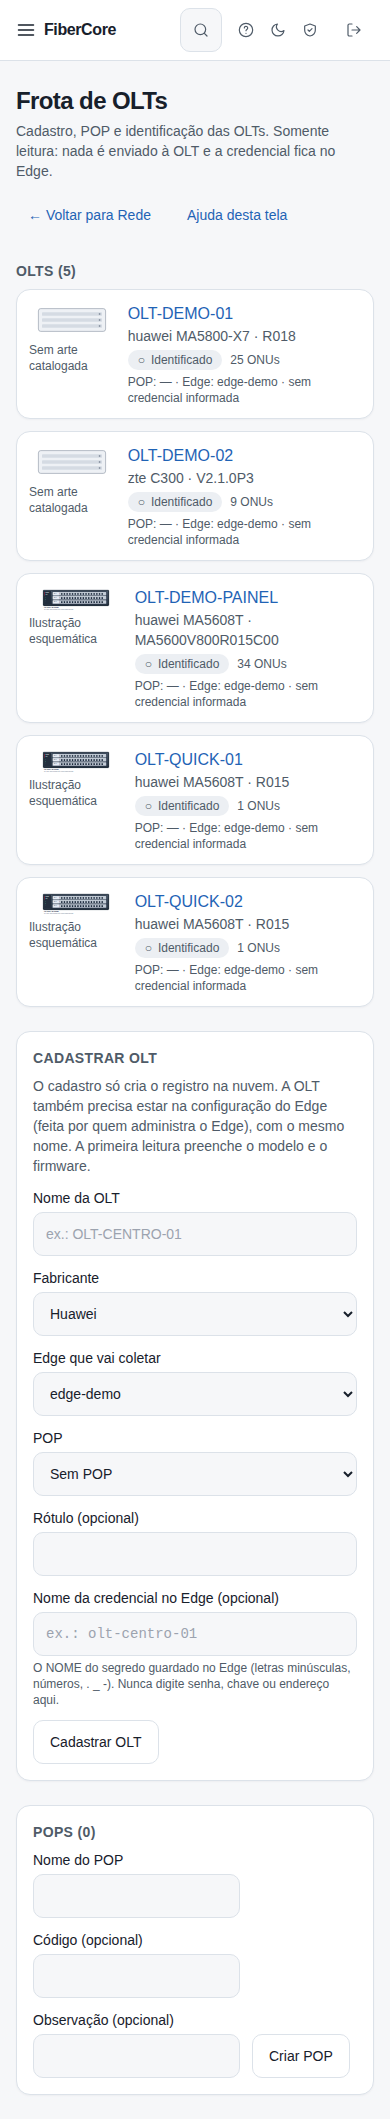
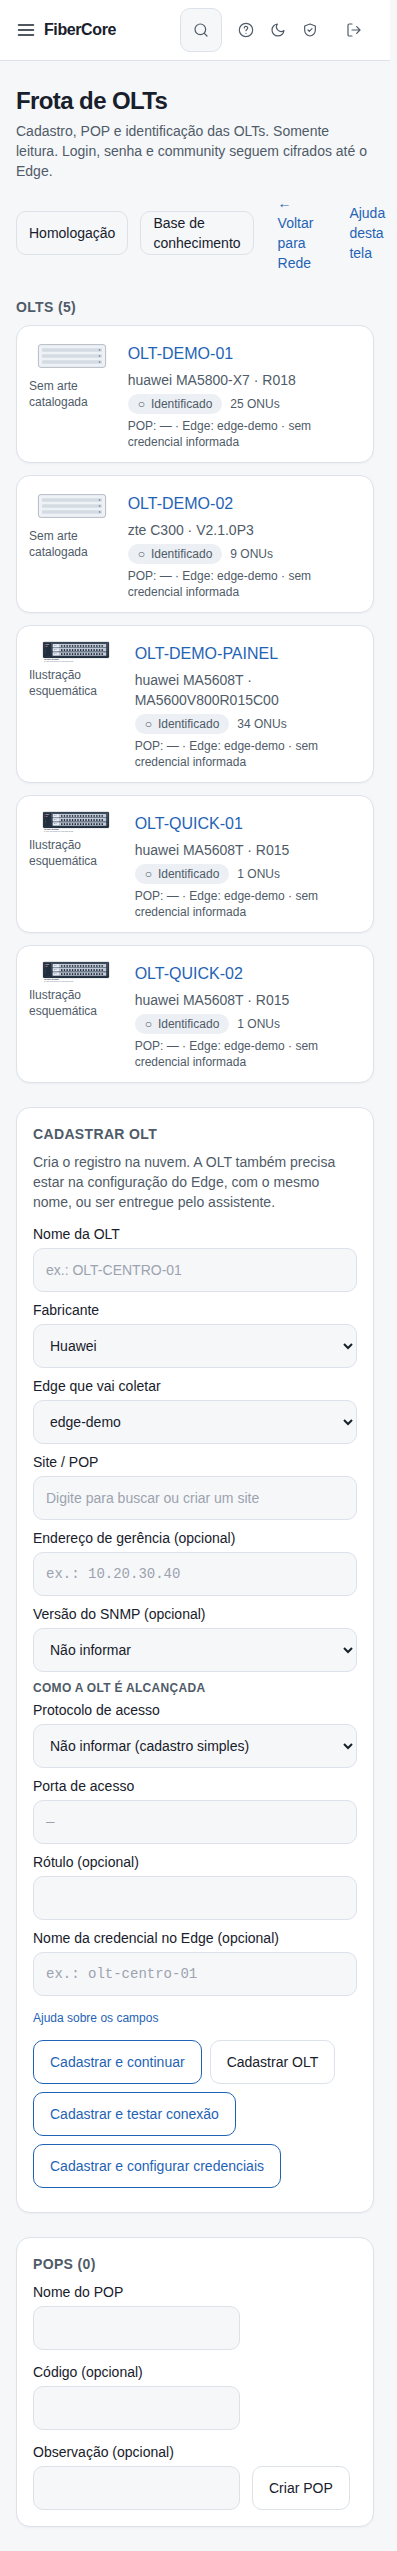
feat(web): cadastro de OLT compacto (grade de 3 colunas, ajuda recolhida, identificação em grade)
A tela da OLT e o formulário de cadastro da Frota usavam uma coluna com texto de ajuda sob cada campo.
Agora: campos lado a lado, os textos longos num bloco "Ajuda sobre os campos" recolhido (FormHelp),
identificação em grade de 4 colunas, assistente de passos mais baixo. Nomes de campos, rótulos e
data-testid preservados. O teste de acessibilidade analisa a página inteira (janela alta) em vez de
reprovar um campo cortado pela borda da janela de 720 px. Capturas da ajuda da Frota regeneradas.

Claude-Session: https://claude.ai/code/session_01G65B8bZFV5S5Eandr1ySmp

diff --git a/apps/web/src/components/OltRegisterForm.tsx b/apps/web/src/components/OltRegisterForm.tsx
@@ -3,6 +3,7 @@ import { useRouter } from "next/navigation";
 import Link from "next/link";
 import { useCallback, useEffect, useRef, useState } from "react";
 import { ConnectionFields } from "@/components/ConnectionFields";
+import { FormHelp } from "@/components/FormHelp";
 import { PopCombobox } from "@/components/PopCombobox";
 import { ADDRESS_HELP, CRED_HELP, FLEET_FLASH, FLEET_VENDORS, SNMP_VERSIONS, type Pop } from "@/lib/fleet";
 import { connectionPlain, DEFAULT_PORT, EDGE_VENDORS, hostKeyProblem, ipLiteralProblem, portProblem, TRUST_COMMAND, VENDOR_WARNING } from "@/lib/oltConnection";
@@ -149,34 +150,36 @@ export function OltRegisterForm({ edges, pops, secretsOn, provisionOn }: { edges
   }
 
   return (
-    <form method="post" action="/bff/frota/olts" onSubmit={(e) => void onSubmit(e)} className="grid gap-3 md:grid-cols-2">
-      <label className="grid gap-1 text-sm">Nome da OLT<input name="name" required minLength={2} maxLength={60} className={field} placeholder="ex.: OLT-CENTRO-01" /></label>
-      <label className="grid gap-1 text-sm">Fabricante<select name="vendor" required value={vendor} onChange={(e) => setVendor(e.target.value)} className={field}>{FLEET_VENDORS.map(([v, l]) => <option key={v} value={v}>{l}</option>)}</select>
-        {!EDGE_VENDORS.includes(vendor) && <span className="text-xs text-muted" data-testid="frota-fabricante-aviso">{VENDOR_WARNING}</span>}</label>
-      <label className="grid gap-1 text-sm">Edge que vai coletar<select name="edge_id" required className={field}>{edges.map((e) => <option key={e.id} value={e.id}>{e.name}</option>)}</select></label>
-      <PopCombobox pops={pops.map((p) => ({ id: p.id, name: p.name }))} />
-      <label className="grid gap-1 text-sm">Endereço de gerência (opcional)<input name="mgmt_address" maxLength={45} autoComplete="off" spellCheck={false} inputMode="text" className={`${field} font-mono`} placeholder="ex.: 10.20.30.40" />
-        <span className="text-xs text-muted">{ADDRESS_HELP}</span></label>
-      <label className="grid gap-1 text-sm">Versão do SNMP (opcional)<select name="snmp_version" className={field}><option value="">Não informar</option>{SNMP_VERSIONS.map(([v, l]) => <option key={v} value={v}>{l}</option>)}</select></label>
+    <form method="post" action="/bff/frota/olts" onSubmit={(e) => void onSubmit(e)} className="grid gap-x-3 gap-y-2 md:grid-cols-6">
+      <label className="grid gap-1 text-sm md:col-span-2">Nome da OLT<input name="name" required minLength={2} maxLength={60} className={field} placeholder="ex.: OLT-CENTRO-01" /></label>
+      <label className="grid gap-1 text-sm md:col-span-2">Fabricante<select name="vendor" required value={vendor} onChange={(e) => setVendor(e.target.value)} className={field}>{FLEET_VENDORS.map(([v, l]) => <option key={v} value={v}>{l}</option>)}</select></label>
+      <label className="grid gap-1 text-sm md:col-span-2">Edge que vai coletar<select name="edge_id" required className={field}>{edges.map((e) => <option key={e.id} value={e.id}>{e.name}</option>)}</select></label>
+      {!EDGE_VENDORS.includes(vendor) && <p className="text-xs text-muted md:col-span-6" data-testid="frota-fabricante-aviso">{VENDOR_WARNING}</p>}
+      <div className="md:col-span-2"><PopCombobox pops={pops.map((p) => ({ id: p.id, name: p.name }))} /></div>
+      <label className="grid gap-1 text-sm md:col-span-2">Endereço de gerência (opcional)<input name="mgmt_address" maxLength={45} autoComplete="off" spellCheck={false} inputMode="text" className={`${field} font-mono`} placeholder="ex.: 10.20.30.40" /></label>
+      <label className="grid gap-1 text-sm md:col-span-2">Versão do SNMP (opcional)<select name="snmp_version" className={field}><option value="">Não informar</option>{SNMP_VERSIONS.map(([v, l]) => <option key={v} value={v}>{l}</option>)}</select></label>
       <ConnectionFields onChange={onConn} defaults={{ protocol: null, port: null, transport: "cli", snmp_port: null, host_key_sha256: null, ssh_mode: "exec", legacy_ssh: false }} />
       {showSecrets && (
-        <fieldset className="grid gap-3 md:col-span-2 md:grid-cols-2" data-testid="frota-segredos">
+        <fieldset className="grid gap-x-3 gap-y-2 md:col-span-6 md:grid-cols-6" data-testid="frota-segredos">
           <legend className="mb-1 text-xs font-semibold uppercase tracking-wide text-muted">{snmpSelected ? "Community SNMP" : "Login e senha"} (cifrados neste navegador antes de sair)</legend>
           {snmpSelected ? (
-            <label className="grid gap-1 text-sm">Community SNMP (v2c)<input ref={commRef} type="password" autoComplete="off" spellCheck={false} maxLength={64} data-lpignore="true" data-1p-ignore data-testid="frota-community" className={`${field} font-mono`} /></label>
+            <label className="grid gap-1 text-sm md:col-span-3">Community SNMP (v2c)<input ref={commRef} type="password" autoComplete="off" spellCheck={false} maxLength={64} data-lpignore="true" data-1p-ignore data-testid="frota-community" className={`${field} font-mono`} /></label>
           ) : (
             <>
-              <label className="grid gap-1 text-sm">Login da OLT<input ref={userRef} type="password" autoComplete="off" spellCheck={false} maxLength={64} data-lpignore="true" data-1p-ignore data-testid="frota-login" className={`${field} font-mono`} /></label>
-              <label className="grid gap-1 text-sm">Senha da OLT<input ref={passRef} type="password" autoComplete="new-password" spellCheck={false} maxLength={128} data-lpignore="true" data-1p-ignore data-testid="frota-senha" className={`${field} font-mono`} /></label>
+              <label className="grid gap-1 text-sm md:col-span-3">Login da OLT<input ref={userRef} type="password" autoComplete="off" spellCheck={false} maxLength={64} data-lpignore="true" data-1p-ignore data-testid="frota-login" className={`${field} font-mono`} /></label>
+              <label className="grid gap-1 text-sm md:col-span-3">Senha da OLT<input ref={passRef} type="password" autoComplete="new-password" spellCheck={false} maxLength={128} data-lpignore="true" data-1p-ignore data-testid="frota-senha" className={`${field} font-mono`} /></label>
             </>
           )}
-          <p className="text-xs text-muted md:col-span-2">Cifrado com a chave pública do Edge: a nuvem só guarda e repassa texto cifrado e nunca o devolve. Os campos são apagados ao enviar. Isto <strong>não troca a senha na OLT</strong>; só entrega a cópia que o Edge usa. Telnet não tem senha aqui.</p>
         </fieldset>
       )}
-      <label className="grid gap-1 text-sm">Rótulo (opcional)<input name="label" maxLength={80} className={field} /></label>
-      <label className="grid gap-1 text-sm">Nome da credencial no Edge (opcional)<input name="credential_ref" maxLength={64} autoComplete="off" spellCheck={false} className={`${field} font-mono`} placeholder="ex.: olt-centro-01" />
-        <span className="text-xs text-muted">{CRED_HELP}</span></label>
-      <div className="flex flex-wrap items-center gap-3 md:col-span-2">
+      <label className="grid gap-1 text-sm md:col-span-3">Rótulo (opcional)<input name="label" maxLength={80} className={field} /></label>
+      <label className="grid gap-1 text-sm md:col-span-3">Nome da credencial no Edge (opcional)<input name="credential_ref" maxLength={64} autoComplete="off" spellCheck={false} className={`${field} font-mono`} placeholder="ex.: olt-centro-01" /></label>
+      <FormHelp>
+        <p><strong>Endereço.</strong> {ADDRESS_HELP}</p>
+        <p><strong>Credencial.</strong> {CRED_HELP}</p>
+        {showSecrets && <p><strong>Login, senha e community.</strong> Cifrados com a chave pública do Edge: a nuvem só guarda e repassa texto cifrado e nunca o devolve. Os campos são apagados ao enviar. Isto não troca a senha na OLT; só entrega a cópia que o Edge usa. Telnet não tem senha aqui.</p>}
+      </FormHelp>
+      <div className="flex flex-wrap items-center gap-2 md:col-span-6">
         {provisionOn && sealOk && sshSelected && <button type="submit" name="acao" value="tudo" data-testid="frota-cadastrar-tudo" className="min-h-touch rounded-btn bg-accent px-4 text-sm font-medium text-white hover:opacity-90 disabled:opacity-60" disabled={none || busy}>{busy ? "Enviando…" : secretsOn ? "Cadastrar e enviar tudo ao Edge" : "Cadastrar e enviar a conexão ao Edge"}</button>}
         {provisionOn && <button type="submit" name="acao" value="assistente" data-testid="frota-cadastrar-continuar" className="min-h-touch rounded-btn border border-accent px-4 text-sm font-medium text-accent hover:bg-bg disabled:opacity-60" disabled={none || busy}>{busy ? "Cadastrando…" : "Cadastrar e continuar"}</button>}
         <button type="submit" data-testid="frota-cadastrar" className="min-h-touch rounded-btn border border-line px-4 text-sm hover:bg-bg disabled:opacity-60" disabled={none || busy}>Cadastrar OLT</button>
@@ -185,7 +188,7 @@ export function OltRegisterForm({ edges, pops, secretsOn, provisionOn }: { edges
         {none && <span className="ml-3 text-xs text-muted">Nenhum Edge disponível.</span>}
       </div>
       {prog && (
-        <ol className="grid gap-1 rounded-btn border border-line p-3 text-sm md:col-span-2" aria-label="Progresso do cadastro" data-testid="frota-progresso">
+        <ol className="grid gap-1 rounded-btn border border-line p-3 text-sm md:col-span-6" aria-label="Progresso do cadastro" data-testid="frota-progresso">
           {prog.map((p, n) => (
             <li key={p.key} data-testid={`frota-progresso-${p.key}`} data-state={p.state}>
               <span className={`font-medium ${TONE[p.state]}`}><span aria-hidden>{MARK[p.state]} </span>{n + 1}. {p.label}</span>
@@ -193,15 +196,15 @@ export function OltRegisterForm({ edges, pops, secretsOn, provisionOn }: { edges
             </li>))}
         </ol>
       )}
-      {failedId && !busy && <p className="text-sm md:col-span-2" data-testid="frota-progresso-abrir">A OLT foi cadastrada. <Link href={`/rede/frota/${failedId}#passos`} className="text-accent underline underline-offset-2">Abrir a OLT</Link> para reenviar o passo que faltou, sem refazer os outros.</p>}
+      {failedId && !busy && <p className="text-sm md:col-span-6" data-testid="frota-progresso-abrir">A OLT foi cadastrada. <Link href={`/rede/frota/${failedId}#passos`} className="text-accent underline underline-offset-2">Abrir a OLT</Link> para reenviar o passo que faltou, sem refazer os outros.</p>}
       {done && (
-        <div className="grid gap-1 rounded-btn border border-accent px-3 py-2 text-sm md:col-span-2" data-testid="frota-progresso-fim">
+        <div className="grid gap-1 rounded-btn border border-accent px-3 py-2 text-sm md:col-span-6" data-testid="frota-progresso-fim">
           <p><strong>Tudo enviado.</strong> Falta só a confirmação no Edge. No servidor do Edge, quem o administra roda:</p>
           <code className="select-all break-all rounded-btn bg-bg px-2 py-1 font-mono text-xs" data-testid="frota-progresso-comando">{TRUST_COMMAND(done.name)}</code>
           <p className="text-xs text-muted">Depois disso o Edge conecta e a OLT sai de “Aguardando confirmação”. Acompanhe e teste em <Link href={`/rede/frota/${done.id}#passos`} className="text-accent underline underline-offset-2">{done.name}</Link>.</p>
         </div>
       )}
-      <div aria-live="polite" className="md:col-span-2" data-testid="frota-cadastro-msg">{err && <p role="alert" className="rounded-btn border border-danger px-3 py-2 text-sm text-danger">{err}</p>}</div>
+      <div aria-live="polite" className="md:col-span-6" data-testid="frota-cadastro-msg">{err && <p role="alert" className="rounded-btn border border-danger px-3 py-2 text-sm text-danger">{err}</p>}</div>
     </form>
   );
 }

diff --git a/apps/web/src/app/rede/frota/[id]/page.tsx b/apps/web/src/app/rede/frota/[id]/page.tsx
@@ -5,6 +5,7 @@ import { DeviceThumb } from "@/components/DeviceThumb";
 import { DataFreshness, ErrorState, PageHeader, StatusPill } from "@/components/ui";
 import { apiSafe } from "@/lib/api";
 import { featuresOn } from "@/lib/features";
+import { FormHelp } from "@/components/FormHelp";
 import { PopCombobox } from "@/components/PopCombobox";
 import { ConnectionFields } from "@/components/ConnectionFields";
 import { OltCredentialsCard } from "@/components/OltCredentialsCard";
@@ -33,45 +34,51 @@ export default async function FrotaOlt({ params, searchParams }: { params: Promi
   const msg = ok && FLEET_FLASH[ok] ? FLEET_FLASH[ok] : erro && FLEET_FLASH[erro] ? FLEET_FLASH[erro] : null;
   return shell(
     <>
-      <PageHeader title={o.name} subtitle="Cadastro e identificação da OLT. Somente leitura: nada é enviado à OLT." helpSlug="rede/frota-de-olts">
+      <PageHeader title={o.name} subtitle="Cadastro e identificação da OLT. Somente leitura." helpSlug="rede/frota-de-olts">
         <Link href="/rede/frota" className="inline-flex min-h-touch items-center rounded-btn px-3 text-sm text-accent hover:underline">← Voltar para a Frota</Link>
       </PageHeader>
       {msg && <p role={erro ? "alert" : "status"} data-testid="frota-flash" className={`mb-4 rounded-btn border px-3 py-2 text-sm ${erro ? "border-danger text-danger" : "border-ok text-ok"}`}>{msg}</p>}
       <div className="grid gap-4 md:grid-cols-2" data-testid="frota-detalhe">
-        {provisionOn && sealKey?.data && <OltSteps olt={o} secretsOn={secretsOn} deliveries={deliveries?.data?.items ?? null} sealKey={sealKey.data} edgeOk />}
-        <section className="panel flex gap-4 p-4" aria-label="Identificação">
-          {assets && <DeviceThumb category="olt" vendor={o.vendor} model={o.model} width={120} label />}
-          <dl className="grid gap-1 text-sm">
+        <section className="panel flex items-start gap-4 p-4 md:col-span-2" aria-label="Identificação">
+          {assets && <DeviceThumb category="olt" vendor={o.vendor} model={o.model} width={72} label />}
+          <dl className="grid flex-1 gap-x-6 gap-y-2 text-sm sm:grid-cols-2 lg:grid-cols-4">
             <div><dt className="text-xs text-muted">Fabricante · modelo</dt><dd>{o.vendor} {o.model ?? "— (ainda não lido pelo Edge)"}</dd></div>
             <div><dt className="text-xs text-muted">Firmware</dt><dd>{o.firmware ?? "—"}</dd></div>
             <div><dt className="text-xs text-muted">Nível do driver</dt><dd><StatusPill value={o.support_level} /></dd></div>
             <div><dt className="text-xs text-muted">Última coleta</dt><dd>{o.observed_at ? <DataFreshness freshness="fresh" observedAt={o.observed_at} /> : "Ainda não coletada"}</dd></div>
             <div><dt className="text-xs text-muted">Edge</dt><dd>{o.edge.name}</dd></div>
-            <div><dt className="text-xs text-muted">Endereço de gerência · SNMP</dt><dd data-testid="frota-endereco">{o.mgmt_address_masked ?? "Não informado"} · {o.snmp_version ? `SNMP ${o.snmp_version}` : "versão do SNMP não informada"}</dd></div>
+            <div><dt className="text-xs text-muted">Endereço de gerência · SNMP</dt><dd data-testid="frota-endereco">{o.mgmt_address_masked ?? "Não informado"} · {o.snmp_version ? `SNMP ${o.snmp_version}` : "SNMP não informado"}</dd></div>
             {o.connection.protocol && <div><dt className="text-xs text-muted">Acesso · prontidão</dt><dd data-testid="frota-acesso">{o.connection.protocol.toUpperCase()} · porta {o.connection.port ?? "—"}<div className="mt-1"><OltReadiness r={o.readiness} testId="frota-prontidao" /></div></dd></div>}
-            <div><dt className="text-xs text-muted">Credencial</dt><dd data-testid="frota-credencial">{o.has_credential_ref ? "Informada (o nome não é mostrado)" : "Não informada"}</dd></div>
-            {o.collected && <div><dt className="text-xs text-muted">ONUs</dt><dd><Link href={`/rede?olt=${o.id}`} className="inline-block py-1 text-accent underline underline-offset-2">Ver as ONUs desta OLT</Link></dd></div>}
+            <div><dt className="text-xs text-muted">Credencial</dt><dd data-testid="frota-credencial">{o.has_credential_ref ? "Informada" : "Não informada"}</dd></div>
+            {o.collected && <div><dt className="text-xs text-muted">ONUs</dt><dd><Link href={`/rede?olt=${o.id}`} className="text-accent underline underline-offset-2">Ver as ONUs desta OLT</Link></dd></div>}
           </dl>
         </section>
-        <section id="cadastro" className="panel p-4" aria-label="Cadastro">
+        {provisionOn && sealKey?.data && <OltSteps olt={o} secretsOn={secretsOn} deliveries={deliveries?.data?.items ?? null} sealKey={sealKey.data} edgeOk />}
+        <section id="cadastro" className="panel p-4 md:col-span-2" aria-label="Cadastro">
           <h2 className="mb-2 text-sm font-semibold uppercase tracking-wide text-muted">Cadastro</h2>
-          <form method="post" action={`/bff/frota/olts/${o.id}`} className="grid gap-3">
-            <PopCombobox pops={(pops.data?.items ?? []).map((p) => ({ id: p.id, name: p.name }))} defaultName={o.pop?.name ?? ""} />
-            <label className="grid gap-1 text-sm">{o.mgmt_address_masked ? "Substituir o endereço de gerência" : "Endereço de gerência"}<input name="mgmt_address" maxLength={45} autoComplete="off" spellCheck={false} className={`${field} font-mono`} placeholder={o.mgmt_address_masked ? "deixe vazio para manter o atual" : "ex.: 10.20.30.40"} />
-              <span className="text-xs text-muted">{ADDRESS_HELP} O endereço já salvo não é mostrado por inteiro.</span></label>
-            {o.mgmt_address_masked && <label className="flex items-center gap-2 text-sm"><input type="checkbox" name="remover_endereco" value="1" /> Remover o endereço</label>}
-            <label className="grid gap-1 text-sm">Versão do SNMP<select name="snmp_version" defaultValue={o.snmp_version ?? ""} className={field}><option value="">Não informar</option>{SNMP_VERSIONS.map(([v, l]) => <option key={v} value={v}>{l}</option>)}</select></label>
+          <form method="post" action={`/bff/frota/olts/${o.id}`} className="grid gap-x-3 gap-y-2 md:grid-cols-6">
+            <div className="md:col-span-2"><PopCombobox pops={(pops.data?.items ?? []).map((p) => ({ id: p.id, name: p.name }))} defaultName={o.pop?.name ?? ""} /></div>
+            <label className="grid gap-1 text-sm md:col-span-2">Rótulo<input name="label" defaultValue={o.label ?? ""} maxLength={80} className={field} /></label>
+            <label className="grid gap-1 text-sm md:col-span-2">Versão do SNMP<select name="snmp_version" defaultValue={o.snmp_version ?? ""} className={field}><option value="">Não informar</option>{SNMP_VERSIONS.map(([v, l]) => <option key={v} value={v}>{l}</option>)}</select></label>
+            <div className="grid content-start gap-1 md:col-span-3">
+              <label className="grid gap-1 text-sm">{o.mgmt_address_masked ? "Substituir o endereço de gerência" : "Endereço de gerência"}<input name="mgmt_address" maxLength={45} autoComplete="off" spellCheck={false} className={`${field} font-mono`} placeholder={o.mgmt_address_masked ? "vazio = manter o atual" : "ex.: 10.20.30.40"} /></label>
+              {o.mgmt_address_masked && <label className="flex items-center gap-2 text-xs text-muted"><input type="checkbox" name="remover_endereco" value="1" /> Remover o endereço</label>}
+            </div>
+            <div className="grid content-start gap-1 md:col-span-3">
+              <label className="grid gap-1 text-sm">{o.has_credential_ref ? "Substituir o nome da credencial no Edge" : "Nome da credencial no Edge"}<input name="credential_ref" defaultValue="" maxLength={64} autoComplete="off" spellCheck={false} placeholder={o.has_credential_ref ? "vazio = manter a atual" : "ex.: olt-centro-01"} className={`${field} font-mono`} /></label>
+              {o.has_credential_ref && <label className="flex items-center gap-2 text-xs text-muted"><input type="checkbox" name="remover_credencial" value="1" /> Remover o nome da credencial</label>}
+            </div>
             <ConnectionFields defaults={{ protocol: o.connection.protocol, port: o.connection.port, transport: o.connection.transport, snmp_port: o.connection.snmp_port, host_key_sha256: o.connection.host_key_sha256, ssh_mode: o.connection.ssh_mode, legacy_ssh: o.connection.legacy_ssh }} />
-            <label className="grid gap-1 text-sm">Rótulo<input name="label" defaultValue={o.label ?? ""} maxLength={80} className={field} /></label>
-            <label className="grid gap-1 text-sm">{o.has_credential_ref ? "Substituir o nome da credencial no Edge" : "Nome da credencial no Edge"}<input name="credential_ref" defaultValue="" maxLength={64} autoComplete="off" spellCheck={false} placeholder={o.has_credential_ref ? "deixe vazio para manter a atual" : "ex.: olt-centro-01"} className={`${field} font-mono`} />
-              <span className="text-xs text-muted">{CRED_HELP} O nome já informado não é mostrado de volta.</span></label>
-            {o.has_credential_ref && <label className="flex items-center gap-2 text-sm"><input type="checkbox" name="remover_credencial" value="1" /> Remover o nome da credencial</label>}
-            <div><button type="submit" data-testid="frota-salvar" className="min-h-touch rounded-btn border border-line px-4 text-sm hover:bg-bg">Salvar</button></div>
+            <FormHelp>
+              <p><strong>Endereço.</strong> {ADDRESS_HELP} O endereço já salvo não é mostrado por inteiro.</p>
+              <p><strong>Credencial.</strong> {CRED_HELP} O nome já informado não é mostrado de volta.</p>
+            </FormHelp>
+            <div className="md:col-span-6"><button type="submit" data-testid="frota-salvar" className="min-h-touch rounded-btn border border-line px-4 text-sm hover:bg-bg">Salvar</button></div>
           </form>
         </section>
         <section id="teste" className="panel p-4 md:col-span-2" aria-label="Teste de conexão" data-testid="frota-teste">
           <h2 className="mb-2 text-sm font-semibold uppercase tracking-wide text-muted">Teste de conexão</h2>
-          <p className="mb-3 text-sm text-muted">O Edge lê a identidade da OLT (modelo e firmware) na próxima janela de coleta, <strong>somente leitura</strong>: nada é configurado. Limite: 1 teste a cada 15 minutos e 4 por hora por OLT. Um resultado recente já guardado responde sem consultar a OLT.</p>
+          <p className="mb-3 text-sm text-muted">Leitura de modelo e firmware pelo Edge na próxima janela de coleta (somente leitura). Limite: 1 teste a cada 15 minutos e 4 por hora por OLT.</p>
           {tests.data === null ? <p className="text-sm text-muted">O histórico de testes não está disponível agora.</p> : (
             <div className="grid gap-4 md:grid-cols-2">
               <div>

diff --git a/apps/web/src/components/ConnectionFields.tsx b/apps/web/src/components/ConnectionFields.tsx
@@ -1,5 +1,6 @@
 "use client";
 import { useEffect, useId, useState } from "react";
+import { FormHelp } from "@/components/FormHelp";
 import { DEFAULT_PORT, defaultPortFor, HOST_KEY_HELP, PROTOCOLS, SSH_MODES, TELNET_WARNING, TRANSPORTS } from "@/lib/oltConnection";
 
 type Defaults = { protocol: string | null; port: number | null; transport: string | null; snmp_port: number | null; host_key_sha256: string | null; ssh_mode: string | null; legacy_ssh: boolean };
@@ -24,30 +25,32 @@ export function ConnectionFields({ defaults, onChange }: { defaults: Defaults; o
   }
   const ssh = protocol === "ssh";
   return (
-    <fieldset className="grid gap-3 md:col-span-2 md:grid-cols-2" data-testid="frota-conexao">
-      <legend className="mb-1 text-xs font-semibold uppercase tracking-wide text-muted">Como a OLT é alcançada (nada aqui é secreto)</legend>
-      <label className="grid gap-1 text-sm" htmlFor={id("proto")}>Protocolo de acesso
+    <fieldset className="grid gap-x-3 gap-y-2 md:col-span-6 md:grid-cols-6" data-testid="frota-conexao">
+      <legend className="mb-1 text-xs font-semibold uppercase tracking-wide text-muted">Como a OLT é alcançada</legend>
+      <label className="grid gap-1 text-sm md:col-span-2" htmlFor={id("proto")}>Protocolo de acesso
         <select id={id("proto")} name="mgmt_protocol" value={protocol} onChange={(e) => onProtocol(e.target.value)} className={field}>
           <option value="">Não informar (cadastro simples)</option>{PROTOCOLS.map(([v, l]) => <option key={v} value={v}>{l}</option>)}</select></label>
       <label className="grid gap-1 text-sm" htmlFor={id("port")}>Porta de acesso
-        <input id={id("port")} name="mgmt_port" value={port} onChange={(e) => setPort(e.target.value)} inputMode="numeric" pattern="[0-9]*" maxLength={5} autoComplete="off" disabled={!protocol} className={`${field} font-mono`} placeholder={protocol ? String(defaultPortFor(protocol)) : "escolha o protocolo"} />
-        <span className="text-xs text-muted">Padrão: SSH 22, Telnet 23 (1 a 65535).</span></label>
+        <input id={id("port")} name="mgmt_port" value={port} onChange={(e) => setPort(e.target.value)} inputMode="numeric" pattern="[0-9]*" maxLength={5} autoComplete="off" disabled={!protocol} className={`${field} font-mono`} placeholder={protocol ? String(defaultPortFor(protocol)) : "—"} title="Padrão: SSH 22, Telnet 23 (1 a 65535)" /></label>
       <input type="hidden" name="mgmt_port_original" value={defaults.port ?? ""} />
-      {protocol === "telnet" && <p role="note" data-testid="frota-telnet-aviso" className="rounded-btn border border-line px-3 py-2 text-sm md:col-span-2">{TELNET_WARNING}</p>}
+      {protocol === "telnet" && <p role="note" data-testid="frota-telnet-aviso" className="rounded-btn border border-line px-3 py-2 text-sm md:col-span-6">{TELNET_WARNING}</p>}
       {ssh && (
         <>
-          <label className="grid gap-1 text-sm" htmlFor={id("transp")}>Transporte da coleta
-            <select id={id("transp")} name="mgmt_transport" value={transport} onChange={(e) => setTransport(e.target.value)} className={field}>{TRANSPORTS.map(([v, l]) => <option key={v} value={v}>{l}</option>)}</select>
-            <span className="text-xs text-muted">SNMP exige a versão SNMP v2c (campo acima).</span></label>
+          <label className="grid gap-1 text-sm md:col-span-1" htmlFor={id("transp")}>Transporte da coleta
+            <select id={id("transp")} name="mgmt_transport" value={transport} onChange={(e) => setTransport(e.target.value)} className={field} title="SNMP exige a versão SNMP v2c">{TRANSPORTS.map(([v, l]) => <option key={v} value={v}>{l}</option>)}</select></label>
           <label className="grid gap-1 text-sm" htmlFor={id("snmpport")}>Porta SNMP
             <input id={id("snmpport")} name="snmp_port" defaultValue={defaults.snmp_port ?? ""} inputMode="numeric" pattern="[0-9]*" maxLength={5} autoComplete="off" className={`${field} font-mono`} placeholder="161" /></label>
-          <label className="grid gap-1 text-sm md:col-span-2" htmlFor={id("hk")}>Impressão digital do host SSH
-            <input id={id("hk")} name="host_key_sha256" defaultValue={defaults.host_key_sha256 ?? ""} maxLength={64} autoComplete="off" spellCheck={false} className={`${field} font-mono`} placeholder="SHA256:…" />
-            <span className="text-xs text-muted">Obtenha na rede da OLT com <code>{HOST_KEY_HELP}</code> (troque IP pelo endereço da OLT; confira por um canal confiável). A nuvem só a repassa ao Edge, que NÃO conecta antes de quem administra o Edge confirmá-la no servidor dele.</span></label>
           <label className="grid gap-1 text-sm" htmlFor={id("mode")}>Modo SSH
             <select id={id("mode")} name="ssh_mode" defaultValue={defaults.ssh_mode ?? "exec"} className={field}>{SSH_MODES.map(([v, l]) => <option key={v} value={v}>{l}</option>)}</select></label>
-          <label className="flex min-h-touch items-center gap-2 text-sm">
-            <input type="checkbox" name="legacy_ssh" value="1" defaultChecked={defaults.legacy_ssh} className="h-7 w-7 shrink-0" /> SSH legado (algoritmos antigos; o Edge só aceita se a política local permitir)</label>
+          <label className="grid gap-1 text-sm md:col-span-4" htmlFor={id("hk")}>Impressão digital do host SSH
+            <input id={id("hk")} name="host_key_sha256" defaultValue={defaults.host_key_sha256 ?? ""} maxLength={64} autoComplete="off" spellCheck={false} className={`${field} font-mono`} placeholder="SHA256:…" /></label>
+          <label className="flex min-h-touch items-center gap-2 self-end text-sm md:col-span-2" title="Algoritmos antigos; o Edge só aceita se a política local permitir">
+            <input type="checkbox" name="legacy_ssh" value="1" defaultChecked={defaults.legacy_ssh} className="h-5 w-5 shrink-0" /> SSH legado</label>
+          <FormHelp label="Como obter a impressão digital" testId="frota-conexao-ajuda">
+            <p>Obtenha na rede da OLT com <code>{HOST_KEY_HELP}</code> (troque IP pelo endereço da OLT; confira por um canal confiável).</p>
+            <p>A nuvem só a repassa ao Edge, que NÃO conecta antes de quem administra o Edge confirmá-la no servidor dele.</p>
+            <p>Transporte SNMP exige a versão SNMP v2c (campo de versão do SNMP). SSH legado usa algoritmos antigos e o Edge só o aceita se a política local permitir.</p>
+          </FormHelp>
         </>
       )}
     </fieldset>

diff --git a/apps/web/src/components/OltSteps.tsx b/apps/web/src/components/OltSteps.tsx
@@ -29,7 +29,7 @@ export function OltSteps({ olt, secretsOn, deliveries, sealKey, edgeOk }: { olt:
   const items = deliveries ?? [];
   const conn = latest(items, "olt_connection");
   const keyConfirmed = sealKey?.state === "confirmed";
-  const blocked = (why: string): Pick<Step, "state" | "tone" | "body"> => ({ state: telnet ? "Aguardando suporte a Telnet" : "Indisponível", tone: "off", body: <p className="text-sm text-muted">{why}</p> });
+  const blocked = (why: string): Pick<Step, "state" | "tone" | "body"> => ({ state: telnet ? "Aguardando suporte a Telnet" : "Indisponível", tone: "off", body: <p className="text-xs text-muted">{why}</p> });
   const steps: Step[] = [];
 
   // 1 Cadastro
@@ -37,8 +37,8 @@ export function OltSteps({ olt, secretsOn, deliveries, sealKey, edgeOk }: { olt:
     n: 1, title: "Cadastrar", state: "Feito", tone: "ok",
     body: (
       <>
-        <p className="text-sm">A OLT está cadastrada na nuvem{olt.registered ? "" : " (criada pela primeira coleta do Edge)"}. Fabricante {olt.vendor}, Edge {olt.edge.name}, endereço {olt.mgmt_address_masked ?? "não informado"}.
-          {simple ? " O protocolo não foi informado (cadastro simples): escolha SSH ou Telnet em " : " Protocolo " + (c.protocol ?? "").toUpperCase() + `, porta ${c.port ?? "—"}. Para mudar, edite em `}
+        <p className="text-sm">Cadastrada na nuvem{olt.registered ? "" : " (criada pela primeira coleta do Edge)"}.
+          {simple ? " Protocolo não informado: escolha SSH ou Telnet em " : " " + (c.protocol ?? "").toUpperCase() + `, porta ${c.port ?? "—"}. Para mudar, edite em `}
           <a href="#cadastro" className="text-accent underline underline-offset-2">Cadastro</a>.</p>
         {!simple && !telnet && !c.host_key_sha256 && <p className="mt-1 text-xs text-danger" data-testid="passo-sem-impressao">Falta a impressão digital do host SSH. Obtenha-a na rede da OLT com <code>{HOST_KEY_HELP}</code> e salve em Cadastro.</p>}
       </>
@@ -98,16 +98,16 @@ export function OltSteps({ olt, secretsOn, deliveries, sealKey, edgeOk }: { olt:
   }
 
   return (
-    <section id="passos" className="panel p-4 md:col-span-2" aria-label="Assistente de cadastro" data-testid="frota-passos">
+    <section id="passos" className="panel p-3 md:col-span-2" aria-label="Assistente de cadastro" data-testid="frota-passos">
       <h2 className="mb-2 text-sm font-semibold uppercase tracking-wide text-muted">Assistente de cadastro</h2>
-      <div className="mb-3 grid gap-1"><p className="text-sm">Prontidão: <strong data-testid="frota-prontidao-texto">{stageText(r)}</strong></p><OltReadiness r={r} testId="frota-prontidao-detalhe" /></div>
+      <div className="mb-2 grid gap-1"><p className="text-sm">Prontidão: <strong data-testid="frota-prontidao-texto">{stageText(r)}</strong></p><OltReadiness r={r} testId="frota-prontidao-detalhe" /></div>
       {c.applied && c.trust_state === "awaiting_local_trust" && (
         <p className="mb-3 rounded-btn border border-accent px-3 py-2 text-sm" data-testid="passos-comando">Aguardando confirmação no Edge. No servidor do Edge rode: <code className="select-all break-all font-mono text-xs">{TRUST_COMMAND(olt.name)}</code></p>
       )}
       {telnet && <p role="note" className="mb-3 rounded-btn border border-line px-3 py-2 text-sm" data-testid="passos-telnet">{TELNET_WARNING}</p>}
-      <ol className="grid gap-3">
+      <ol className="grid gap-2">
         {steps.map((s) => (
-          <li key={s.n} data-testid={`passo-${s.n}`} className="rounded-btn border border-line p-3">
+          <li key={s.n} data-testid={`passo-${s.n}`} className="rounded-btn border border-line px-3 py-2">
             <h3 className="mb-1 flex flex-wrap items-baseline gap-x-3 text-sm font-semibold"><span>{s.n}. {s.title}</span>
               <span className={`text-xs font-medium ${toneCls[s.tone]}`} data-testid="passo-estado"><span aria-hidden>{toneMark[s.tone]} </span>{s.state}</span></h3>
             {s.body}

diff --git a/apps/web/src/app/rede/frota/page.tsx b/apps/web/src/app/rede/frota/page.tsx
@@ -23,7 +23,7 @@ export default async function Frota({ searchParams }: { searchParams: Promise<{ 
   const list = olts.data?.items ?? [], popList = pops.data?.items ?? [], edgeList = edges.data ?? [];
   return (
     <AppShell active="/rede" user="1">
-      <PageHeader title="Frota de OLTs" subtitle="Cadastro, POP e identificação das OLTs. Somente leitura: nada é enviado à OLT. Login, senha e community seguem cifrados até o Edge e nunca ficam em claro na nuvem." helpSlug="rede/frota-de-olts">
+      <PageHeader title="Frota de OLTs" subtitle="Cadastro, POP e identificação das OLTs. Somente leitura. Login, senha e community seguem cifrados até o Edge." helpSlug="rede/frota-de-olts">
         <Link href="/rede/homologacao" data-testid="frota-homologacao-link" className="inline-flex min-h-touch items-center rounded-btn border border-line px-3 text-sm hover:bg-bg">Homologação</Link>
         <Link href="/rede/conhecimento" data-testid="frota-conhecimento-link" className="inline-flex min-h-touch items-center rounded-btn border border-line px-3 text-sm hover:bg-bg">Base de conhecimento</Link>
         <Link href="/rede" className="inline-flex min-h-touch items-center rounded-btn px-3 text-sm text-accent hover:underline">← Voltar para Rede</Link>
@@ -50,7 +50,7 @@ export default async function Frota({ searchParams }: { searchParams: Promise<{ 
         </section>
         <section aria-label="Cadastrar OLT" className="panel p-4" data-testid="frota-cadastro">
           <h2 className="mb-2 text-sm font-semibold uppercase tracking-wide text-muted">Cadastrar OLT</h2>
-          <p className="mb-3 text-sm text-muted">O cadastro só cria o registro na nuvem. Sem a entrega da conexão (assistente), a OLT também precisa estar na configuração do Edge (feita por quem administra o Edge), com o mesmo nome. O teste de conexão e a primeira leitura preenchem o modelo e o firmware.</p>
+          <p className="mb-3 text-sm text-muted">Cria o registro na nuvem. A OLT também precisa estar na configuração do Edge, com o mesmo nome, ou ser entregue pelo assistente.</p>
           <OltRegisterForm edges={edgeList} pops={popList} secretsOn={secrets} provisionOn={provision} />
         </section>
         <section aria-label="POPs" className="panel p-4" data-testid="frota-pops">

diff --git a/apps/web/src/components/PopCombobox.tsx b/apps/web/src/components/PopCombobox.tsx
@@ -39,8 +39,8 @@ export function PopCombobox({ pops, defaultName = "", label = "Site / POP", test
             <li key={o.key} id={`${base}-o${i}`} role="option" aria-selected={i === active} data-testid={o.add ? "pop-adicionar" : "pop-opcao"}
               onMouseDown={(e) => { e.preventDefault(); o.pick(); }} className={`flex min-h-touch cursor-pointer items-center px-3 py-2 ${i === active ? "bg-surface-2" : ""} ${o.add ? "font-medium text-accent" : ""}`}>{o.label}</li>))}
       </ul>
-      <span className="text-xs text-muted" data-testid="pop-estado" aria-live="polite">
-        {!text.trim() ? "Sem site." : choice.id ? "Site existente." : choice.create ? `Novo site: “${choice.typed}” será criado ao salvar.` : ""}
+      <span className="text-xs text-muted empty:hidden" data-testid="pop-estado" aria-live="polite">
+        {!text.trim() ? "" : choice.id ? "Site existente." : choice.create ? `Novo site: “${choice.typed}” será criado ao salvar.` : ""}
       </span>
     </div>
   );

diff --git a/apps/web/e2e/frota-credenciais.spec.ts b/apps/web/e2e/frota-credenciais.spec.ts
@@ -101,6 +101,7 @@ test("credenciais: o texto claro nunca sai do navegador; o Edge de teste abre o 
     expect(await passwordInputs.nth(i).getAttribute("autocomplete")).toMatch(/^(off|new-password)$/);
   }
   expect(await page.locator("form[data-testid=cred-form]").getAttribute("action")).toBeNull();
+  await page.setViewportSize({ width: 1280, height: 2600 });   // a análise vê a página inteira: um campo na borda da janela de 720 px não conta como "parcialmente coberto"
   const axeForm = await new AxeBuilder({ page: page as never }).withTags(["wcag2a", "wcag2aa", "wcag21aa", "wcag22aa"]).analyze();
   expect(axeForm.violations.filter((v) => v.impact === "serious" || v.impact === "critical").map((v) => `${v.id}: ${v.nodes.map((n) => n.target.join(" ")).join(" || ")}`)).toEqual([]);
   for (const el of await form.locator("input, button").all()) {   // alvos >= 24 px (WCAG 2.2 AA)

diff --git a/apps/web/src/components/FormHelp.tsx b/apps/web/src/components/FormHelp.tsx
@@ -1,0 +1,9 @@
+/** Ajuda de um formulário recolhida por padrão: os textos longos saem de baixo de cada campo e ficam num único bloco que a pessoa abre quando precisa. Funciona sem JavaScript (<details>). */
+export function FormHelp({ children, label = "Ajuda sobre os campos", testId }: { children: React.ReactNode; label?: string; testId?: string }) {
+  return (
+    <details className="text-xs text-muted md:col-span-6" data-testid={testId}>
+      <summary className="inline-flex min-h-[28px] cursor-pointer select-none items-center text-accent">{label}</summary>
+      <div className="mt-1 grid gap-1.5 rounded-btn border border-line px-3 py-2">{children}</div>
+    </details>
+  );
+}
